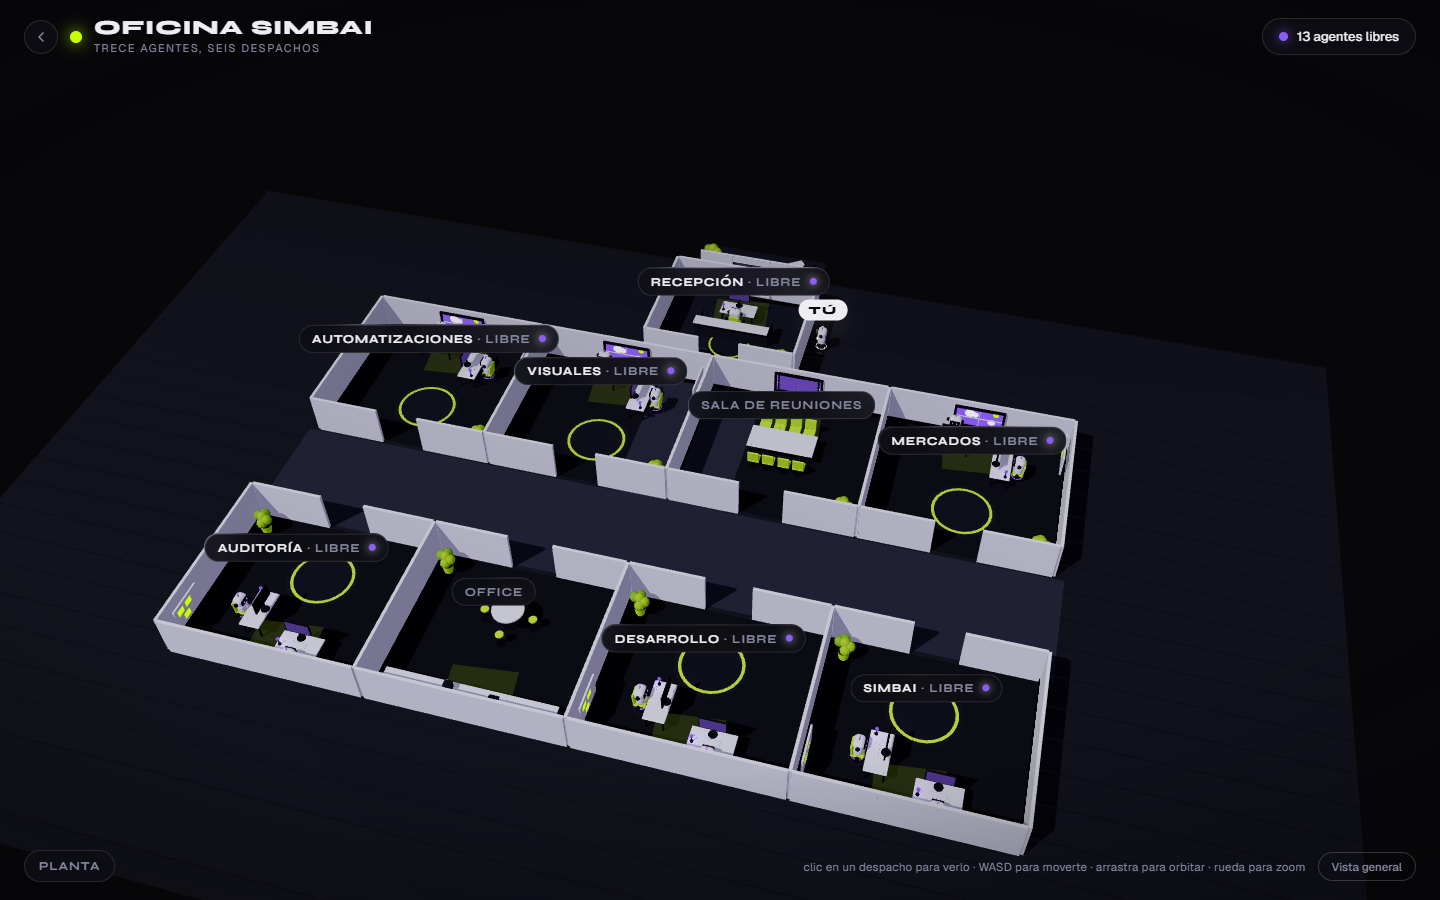
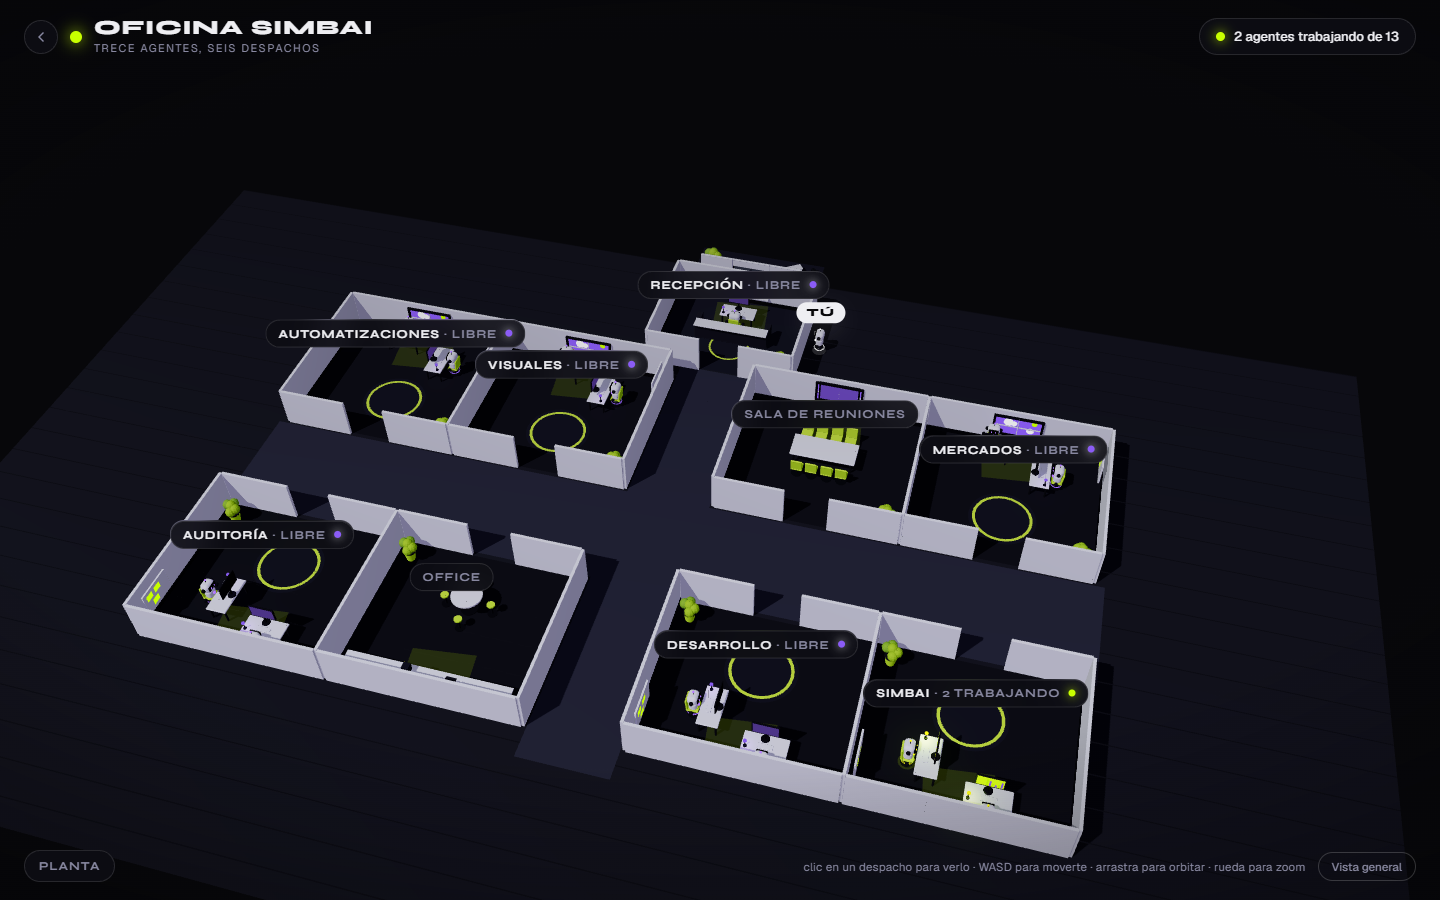
Pasillo que baja desde recepcion y parte las dos filas
Recepcion estaba arriba pero las filas de cuatro salas seguidas le cerraban el paso: no habia manera de llegar al pasillo horizontal.

- Hueco de 4,6 m en el centro de cada fila, entre la segunda y la tercera sala, alineado con la puerta de recepcion.
- El suelo del pasillo vertical va de la puerta de recepcion al fondo de la fila sur.
- Las salas a ambos lados del corte levantan su pared, que antes compartian con la contigua.
- Comprobado: 41 paredes, 0 solapes, y el pasillo acaba exactamente en la pared de recepcion.

Changed region(s): [[0.0625, 0.5289, 0.7812, 0.9644], [0.1875, 0.28, 0.7812, 0.6533], [0.8438, 0.0311, 0.9688, 0.0622]]

diff --git a/oficina-simbai/oficina.html b/oficina-simbai/oficina.html
@@ -276,6 +276,7 @@ const EJEMPLO = {
 
 /* ── medidas ────────────────────────────────────────── */
 const PASILLO = 6, FONDO = 8.4, ALTO = 2.2, GROSOR = 0.15, PUERTA = 2.2, ANCHO = 9.4;
+const TRANSVERSAL = 4.6; // pasillo vertical que baja desde recepción y corta las dos filas
 const RADIO = 0.35, VEL = 3.6, ROBOT = 0.62;
 
 // normaliza el JSON del endpoint: todo puesto conocido queda con una situación.
@@ -799,18 +800,23 @@ function construye(){
   filas.forEach((fila, lado) => {
     // cada fila se centra sobre el pasillo, así la que tiene menos salas no descuadra la planta
     const desplazamiento = (Math.max(...filas.map(f => f.length)) - fila.length) * ANCHO / 2;
+    const corte = Math.ceil(fila.length / 2); // por dónde pasa el pasillo vertical
     fila.forEach((cfg, i) => {
-      // Una sola pared por medianera. La fila sur va rotada 180°, así que su pared local
-      // derecha cae a la izquierda en el mundo: ahí la omite la primera sala, no la última.
-      cfg.cierraFila = lado ? i === 0 : i === fila.length - 1;
+      // Una sola pared por medianera, salvo a los lados del pasillo vertical, donde cada
+      // sala necesita la suya. La fila sur va rotada 180°, así que su pared local derecha
+      // cae a la izquierda en el mundo: ahí la omite la primera sala, no la última.
+      const ultima = lado ? i === 0 : i === fila.length - 1;
+      const juntoAlCorte = lado ? i === corte : i === corte - 1;
+      cfg.cierraFila = ultima || juntoAlCorte;
       const s = sala(cfg);
-      // paso = ANCHO exacto: cada sala ocupa de -W/2 a +W/2 y las medianeras coinciden
-      s.position.set(desplazamiento + i * ANCHO + ANCHO / 2, 0, (lado ? 1 : -1) * (PASILLO / 2 + FONDO / 2));
+      // paso = ANCHO exacto, más el hueco del pasillo a partir del corte
+      const hueco = i >= corte ? TRANSVERSAL : 0;
+      s.position.set(desplazamiento + i * ANCHO + ANCHO / 2 + hueco, 0, (lado ? 1 : -1) * (PASILLO / 2 + FONDO / 2));
       if (lado) s.rotation.y = Math.PI;
       edificio.add(s);
     });
   });
-  const largo = Math.max(...filas.map(f => f.length)) * ANCHO;
+  const largo = Math.max(...filas.map(f => f.length)) * ANCHO + TRANSVERSAL;
 
   // recepción arriba, cerrando el pasillo por el norte: la entrada queda en la cabecera de
   // la planta y el pasillo baja desde ella hacia los despachos
@@ -837,9 +843,14 @@ function construye(){
   const corredor = new THREE.Mesh(new THREE.PlaneGeometry(largo + 1, PASILLO - 0.3), sueloPasillo);
   corredor.rotation.x = -Math.PI / 2; corredor.position.set(largo / 2, 0.006, 0); corredor.receiveShadow = true;
   edificio.add(corredor);
-  // y su prolongación hacia el norte, hasta la puerta de recepción
-  const acceso = new THREE.Mesh(new THREE.PlaneGeometry(PASILLO - 0.3, FONDO + 3), sueloPasillo);
-  acceso.rotation.x = -Math.PI / 2; acceso.position.set(largo / 2, 0.006, -(PASILLO / 2 + (FONDO + 3) / 2 - 0.2)); acceso.receiveShadow = true;
+  // el pasillo vertical: baja desde la puerta de recepción, corta las dos filas y llega al fondo
+  const largoAcceso = (PASILLO / 2 + FONDO + 1.5) + (PASILLO / 2 + FONDO + 1.2);
+  const acceso = new THREE.Mesh(new THREE.PlaneGeometry(TRANSVERSAL - 0.3, largoAcceso), sueloPasillo);
+  acceso.rotation.x = -Math.PI / 2;
+  // de la puerta de recepción (z = -zRec + 6.4/2) al fondo de la fila sur
+  const zNorte = -(PASILLO / 2 + FONDO + 1.2), zSur = PASILLO / 2 + FONDO + 1.5;
+  acceso.position.set(largo / 2, 0.006, (zNorte + zSur) / 2);
+  acceso.receiveShadow = true;
   edificio.add(acceso);
 
   const w = largo + 26, prof = FONDO * 2 + PASILLO + 20;

diff --git a/packages/web/public/oficina.html b/packages/web/public/oficina.html
@@ -276,6 +276,7 @@ const EJEMPLO = {
 
 /* ── medidas ────────────────────────────────────────── */
 const PASILLO = 6, FONDO = 8.4, ALTO = 2.2, GROSOR = 0.15, PUERTA = 2.2, ANCHO = 9.4;
+const TRANSVERSAL = 4.6; // pasillo vertical que baja desde recepción y corta las dos filas
 const RADIO = 0.35, VEL = 3.6, ROBOT = 0.62;
 
 // normaliza el JSON del endpoint: todo puesto conocido queda con una situación.
@@ -799,18 +800,23 @@ function construye(){
   filas.forEach((fila, lado) => {
     // cada fila se centra sobre el pasillo, así la que tiene menos salas no descuadra la planta
     const desplazamiento = (Math.max(...filas.map(f => f.length)) - fila.length) * ANCHO / 2;
+    const corte = Math.ceil(fila.length / 2); // por dónde pasa el pasillo vertical
     fila.forEach((cfg, i) => {
-      // Una sola pared por medianera. La fila sur va rotada 180°, así que su pared local
-      // derecha cae a la izquierda en el mundo: ahí la omite la primera sala, no la última.
-      cfg.cierraFila = lado ? i === 0 : i === fila.length - 1;
+      // Una sola pared por medianera, salvo a los lados del pasillo vertical, donde cada
+      // sala necesita la suya. La fila sur va rotada 180°, así que su pared local derecha
+      // cae a la izquierda en el mundo: ahí la omite la primera sala, no la última.
+      const ultima = lado ? i === 0 : i === fila.length - 1;
+      const juntoAlCorte = lado ? i === corte : i === corte - 1;
+      cfg.cierraFila = ultima || juntoAlCorte;
       const s = sala(cfg);
-      // paso = ANCHO exacto: cada sala ocupa de -W/2 a +W/2 y las medianeras coinciden
-      s.position.set(desplazamiento + i * ANCHO + ANCHO / 2, 0, (lado ? 1 : -1) * (PASILLO / 2 + FONDO / 2));
+      // paso = ANCHO exacto, más el hueco del pasillo a partir del corte
+      const hueco = i >= corte ? TRANSVERSAL : 0;
+      s.position.set(desplazamiento + i * ANCHO + ANCHO / 2 + hueco, 0, (lado ? 1 : -1) * (PASILLO / 2 + FONDO / 2));
       if (lado) s.rotation.y = Math.PI;
       edificio.add(s);
     });
   });
-  const largo = Math.max(...filas.map(f => f.length)) * ANCHO;
+  const largo = Math.max(...filas.map(f => f.length)) * ANCHO + TRANSVERSAL;
 
   // recepción arriba, cerrando el pasillo por el norte: la entrada queda en la cabecera de
   // la planta y el pasillo baja desde ella hacia los despachos
@@ -837,9 +843,14 @@ function construye(){
   const corredor = new THREE.Mesh(new THREE.PlaneGeometry(largo + 1, PASILLO - 0.3), sueloPasillo);
   corredor.rotation.x = -Math.PI / 2; corredor.position.set(largo / 2, 0.006, 0); corredor.receiveShadow = true;
   edificio.add(corredor);
-  // y su prolongación hacia el norte, hasta la puerta de recepción
-  const acceso = new THREE.Mesh(new THREE.PlaneGeometry(PASILLO - 0.3, FONDO + 3), sueloPasillo);
-  acceso.rotation.x = -Math.PI / 2; acceso.position.set(largo / 2, 0.006, -(PASILLO / 2 + (FONDO + 3) / 2 - 0.2)); acceso.receiveShadow = true;
+  // el pasillo vertical: baja desde la puerta de recepción, corta las dos filas y llega al fondo
+  const largoAcceso = (PASILLO / 2 + FONDO + 1.5) + (PASILLO / 2 + FONDO + 1.2);
+  const acceso = new THREE.Mesh(new THREE.PlaneGeometry(TRANSVERSAL - 0.3, largoAcceso), sueloPasillo);
+  acceso.rotation.x = -Math.PI / 2;
+  // de la puerta de recepción (z = -zRec + 6.4/2) al fondo de la fila sur
+  const zNorte = -(PASILLO / 2 + FONDO + 1.2), zSur = PASILLO / 2 + FONDO + 1.5;
+  acceso.position.set(largo / 2, 0.006, (zNorte + zSur) / 2);
+  acceso.receiveShadow = true;
   edificio.add(acceso);
 
   const w = largo + 26, prof = FONDO * 2 + PASILLO + 20;

diff --git a/oficina-simbai/README.md b/oficina-simbai/README.md
@@ -18,7 +18,7 @@ Una planta cartoon con seis despachos de dos puestos y una recepción. Cada agen
 
 ## Cómo está distribuida la planta
 
-Se entra por arriba, por una puerta de cristal con su zaguán y su felpudo, a un vestíbulo con sofá de espera, frente al mostrador de recepción, que cierra la planta por el norte. De ahí baja el pasillo, con suelo propio más claro, que recorre la planta entre las dos filas de salas.
+Se entra por arriba, por una puerta de cristal con su zaguán y su felpudo, a un vestíbulo con sofá de espera, frente al mostrador de recepción, que cierra la planta por el norte. De su puerta baja un pasillo que parte las dos filas por el centro y llega al fondo, de modo que se alcanza cualquier despacho sin rodear. El otro pasillo, horizontal, separa las dos filas. De ahí baja el pasillo, con suelo propio más claro, que recorre la planta entre las dos filas de salas.
 
 En el centro de cada fila hay una zona común, por donde pasa todo el mundo: la sala de reuniones con su mesa larga y su pantalla, y el office con encimera, cafetera y mesa alta con taburetes. No tienen agentes: su rótulo solo lleva el nombre, sin estado.
 
